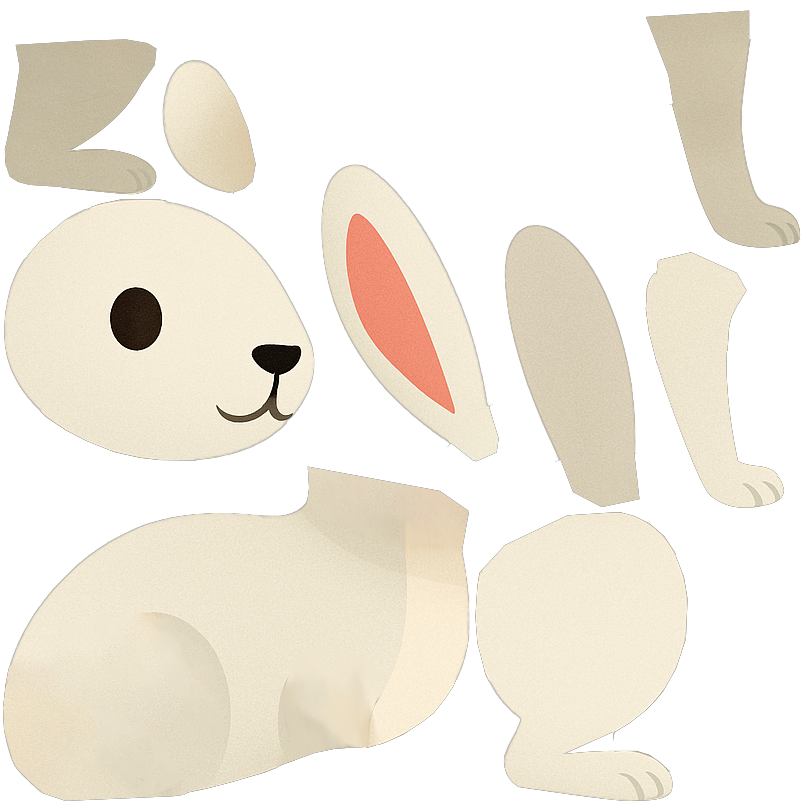
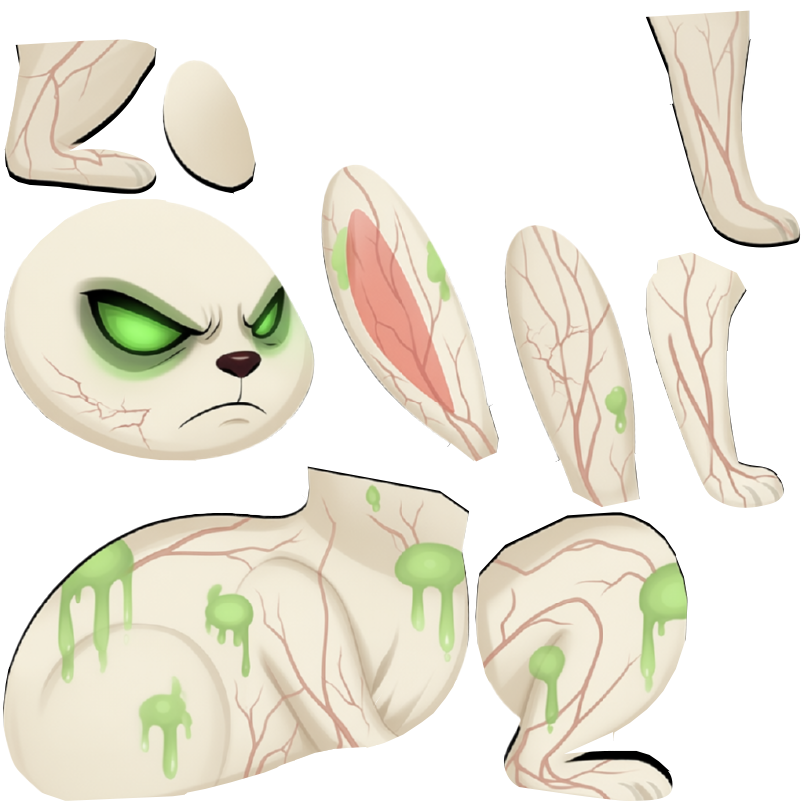
zombie edition pics

diff --git a/packages/game/src/config.ts b/packages/game/src/config.ts
@@ -30,4 +30,4 @@ export const START_SCENE_GAMEPLAY = false;
 export const START_SCENE_INTRO = false;
 export const PAUSE_WHEN_FOCUS_LOST = true;
 
-export const VERSION = '1.9.0 Beta'; 
+export const VERSION = '2.0.0 Zombie Edition'; 
